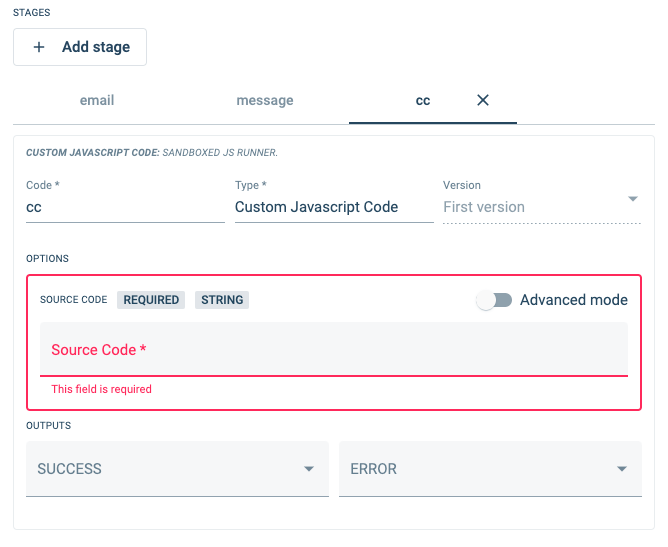
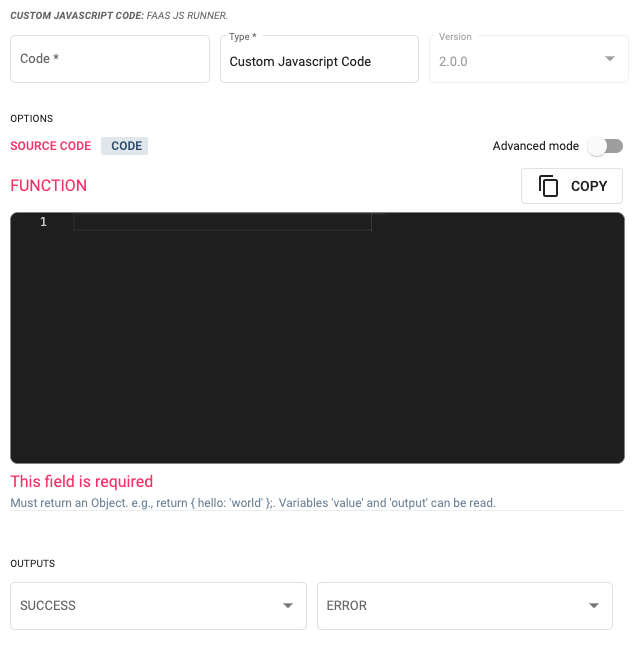
CCJS update

diff --git a/docs/documentation/automation/bots/ccjs.md b/docs/documentation/automation/bots/ccjs.md
@@ -1,12 +1,16 @@
-# Custom Javascript Code  
+---
+displayed_sidebar: documentation
+---
+# Custom Javascript Code 1.0.0
+
 import useBaseUrl from '@docusaurus/useBaseUrl';
 
-<img alt="title image" className="img_title" src={useBaseUrl('img/design/Main_menu.svg')} />
+<img alt="title image" className="img_sizing" src={useBaseUrl('img/design/Main_menu.svg')} />
 <br/>
 
 ## Overview {#overview}
 
-With the _Custom JavaScript Code_ stage-bot, you can add extra customization to your routines. This powerful tool runs safely in a sandboxed _node.js_ environment with the ability to extract, process, and return data for use in the rest of your routine. The stage-bot can also access the Axios library, allowing it to make network requests.
+With the _Custom JavaScript Code_ stage-bot, you can add extra customization to your routines. This powerful tool runs safely in a sandboxed _node.js_ environment with the ability to extract, process, and return data for use in the rest of your routine.
 
 Simply add your JavaScript code into the **source code** field in the stage-bot's settings panel:
 
@@ -17,23 +21,22 @@ Simply add your JavaScript code into the **source code** field in the stage-bot'
 
 By default, your function can access two variables:
 
-- `value` is an object that contains the [context](/docs/documentation/automation/triggers_and_contexts) data. The _context data_ depends on the [trigger](/docs/documentation/automation/triggers_and_contexts).
+- `value` is an object that contains the [context](/docs/documentation/automation/triggers_and_contexts) data, this will depend on the [trigger](/docs/documentation/automation/triggers_and_contexts).
 - `output` is an array of objects -e.g.,`{ key: 'step-name', result: Object }`- with all the previous executed steps.
 
-### Return Statements {#return}
-- The code must always return a value. This value can later be used in the following routine stages as [COTLang](/docs/documentation/automation/admin_cotlang) script, e.g., `$OUTPUT#step-name#data`.
-
-### Network Requets {#network-requests}
-
-- The JavaScript code runs in a sandboxed _node.js_ environment without access to `require`, `Buffer`, or `process.env`. Therefore, network or IO activity will not work directly. This code block is intended to transform data from the `value` and `output` variables, not to store or gather external information.
-- Nonetheless, access to the _Axios_ library is available. With the _Axios_ library, the stage-bot can make network requests.
+:::caution Attention:
+- The JavaScript code runs in a sandboxed _node.js_ environment without access to `require` `Buffer` or `process.env`.
+Therefore no network or IO activity will work. This means that this block is intended to transform data from the `value` and `output` variables, not to store o gather external information.
+- The code must always return a value. This value can later be used in the following stages as [COTLang](/docs/documentation/automation/admin_cotlang) script, e.g., `$OUTPUT#step-name#data`.
+:::
 
 <div className="alert alert--secondary">
 
 ### <span className="hero__subtitle">Examples:</span> {#example}
-This tool is typically used for –but not limited to– automated data extraction from _collections_ and then returning the results in string format for use in the routine's upcoming stage.
 
-Another example –like the one shown below– takes a _list-input_ value of `email` or `name`, to convert a list of `COTUsers` into a list of `emails` or `names`.
+One common example of how this tool can be used -but not limited to- is automated data extraction from _collections_ and returning the results in string format for use in the routine's upcoming stage.
+
+Another example -like the one shown below- takes a `list-input` value of "email" or "name", to either convert a list of `COTUsers` into a list of `emails` or `names`.
 
 ```javascript
 const users = output.find(o => o.key === 'user_step').data;

diff --git a/blog/2022-07-19-ccjs-update.md b/blog/2022-07-19-ccjs-update.md
@@ -1,0 +1,42 @@
+---
+title: Routine Javascript Runner Update
+description: Up till now, developers have been able to summon the Custom Code Javascript Stage-Bot (CCJS) stage-bot within any routine to add customized Javascript code but without the ability to access external libraries. But now, they can make network requests using Axios. Users will be able to benefit from the development of improved customized automated routines that can now work with external data.
+image: img/updates/update_ccjs_update.png
+draft: false
+---
+
+import useBaseUrl from '@docusaurus/useBaseUrl'; 
+import Highlight from '@theme/Highlight';
+
+<div className="align-center">
+<div className="card">
+<div className="card__header">
+
+<span className="hero__subtitle"><em>
+
+Give your bots a boost of power!
+
+</em></span>
+
+</div>
+<div className="card__image">
+
+<img alt="feature image" className="img_card item shadow--tl" src={useBaseUrl('img/updates/update_ccjs_update.png')} />
+<br/>
+
+</div>
+<div className="card__body">
+
+🤖 Users will be able to benefit from the development of improved customized automated _routines_ that can now work with external data. That is because, up until now, developers have been able to summon the _Custom Code Javascript Stage-Bot_ (CCJS) within any _routine_ to add customized Javascript code but without the ability to access external libraries. But now they have the power to make network requests using _Axios_ within the CCJS stage-bot!
+
+</div>
+<div className="card__footer text-center align-padding-center">
+
+<a className="button button--info button--block" href="/docs/documentation/automation/bots/ccjs-2.0.0">Routine Stage Documentation</a>
+<br/>
+
+
+
+</div>
+</div>
+</div>

diff --git a/docs/documentation/automation/bots/ccjs-2.0.0.md b/docs/documentation/automation/bots/ccjs-2.0.0.md
@@ -1,3 +1,9 @@
+---
+displayed_sidebar: documentation
+---
+
+# Custom Javascript Code 2.0.0
+
 import useBaseUrl from '@docusaurus/useBaseUrl';
 
 <img alt="title image" className="img_title" src={useBaseUrl('img/design/Main_menu.svg')} />
@@ -50,3 +56,29 @@ switch (type) {
 
 
 -----------
+  
+**Sandboxed JS runner.**  
+key: CCJS  
+## Inputs  
+### 1. Source Code (key: src)  
+Must return an Object. e.g., return { hello: 'world' };. Variables 'value' and 'output' can be read.  
+Required: true  
+Data Type: string   
+## Next Stages  
+### 1. SUCCESS  
+  
+### 2. ERROR  
+  
+## Outputs  
+### 1. statusCode  
+Status code number: 0 if successful  
+Required: no  
+Data Type: number   
+### 2. error  
+Error message.  
+Required: no  
+Data Type: string   
+### 3. data  
+Returned value.  
+Required: no  
+Data Type: any 

diff --git a/docs/documentation/automation/existing_routines.md b/docs/documentation/automation/existing_routines.md
@@ -24,6 +24,7 @@ Stage Types are explained in the following table:
 
 | Stage Type Name (Bot) | Description | Key |
 | ---- | ---- | ---- |
+| [Custom Javascript Code (2.0.0)](/docs/documentation/automation/bots/ccjs-2.0.0) | FaaS JS runner. | _CCJS_ |  
 | [Custom Javascript Code](/docs/documentation/automation/bots/ccjs) | Sandboxed JS runner. | _CCJS_ |  
 | [Iterate](/docs/documentation/automation/bots/fceach) | Iterate over an Array | _FCEach_ |  
 | [Conditional](/docs/documentation/automation/bots/fcifelse) | Execute the next stage conditionally based on the operator's left and right hand | _FCIfElse_ |  

diff --git a/docs/documentation/automation/bots/table.md b/docs/documentation/automation/bots/table.md
@@ -1,3 +1,4 @@
+| [Custom Javascript Code (2.0.0)](/docs/documentation/automation/bots/ccjs-2.0.0) | FaaS JS runner. | _CCJS_ |  
 | [Custom Javascript Code](/docs/documentation/automation/bots/ccjs) | Sandboxed JS runner. | _CCJS_ |  
 | [Iterate](/docs/documentation/automation/bots/fceach) | Iterate over an Array | _FCEach_ |  
 | [Conditional](/docs/documentation/automation/bots/fcifelse) | Execute the next stage conditionally based on the operator's left and right hand | _FCIfElse_ |  
